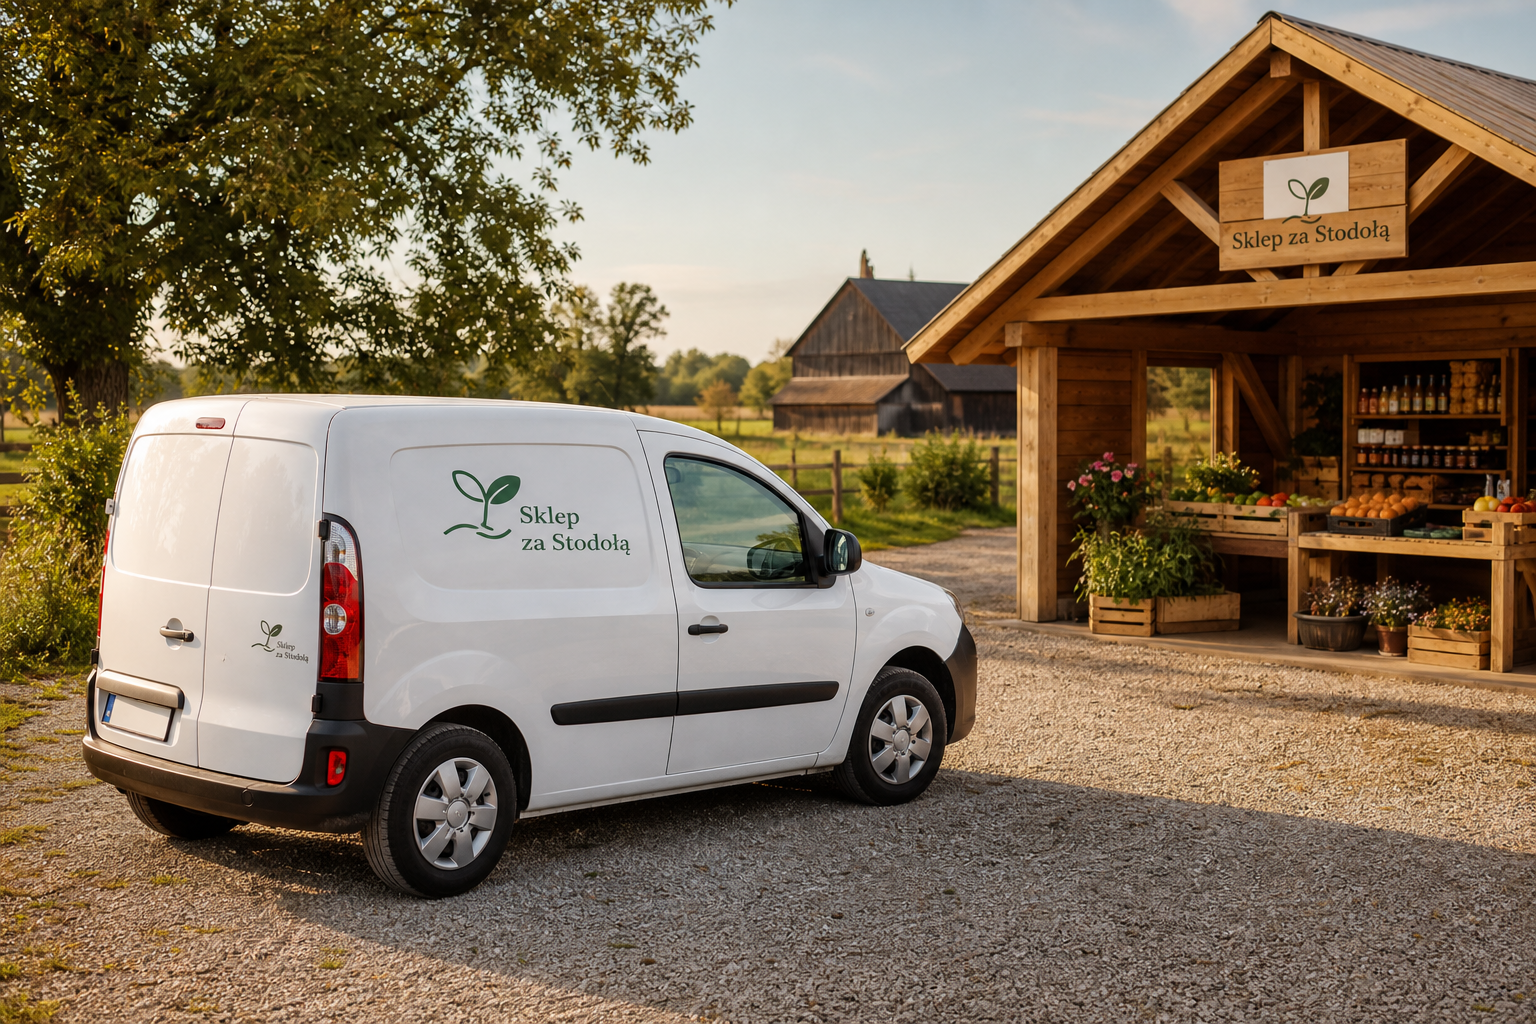
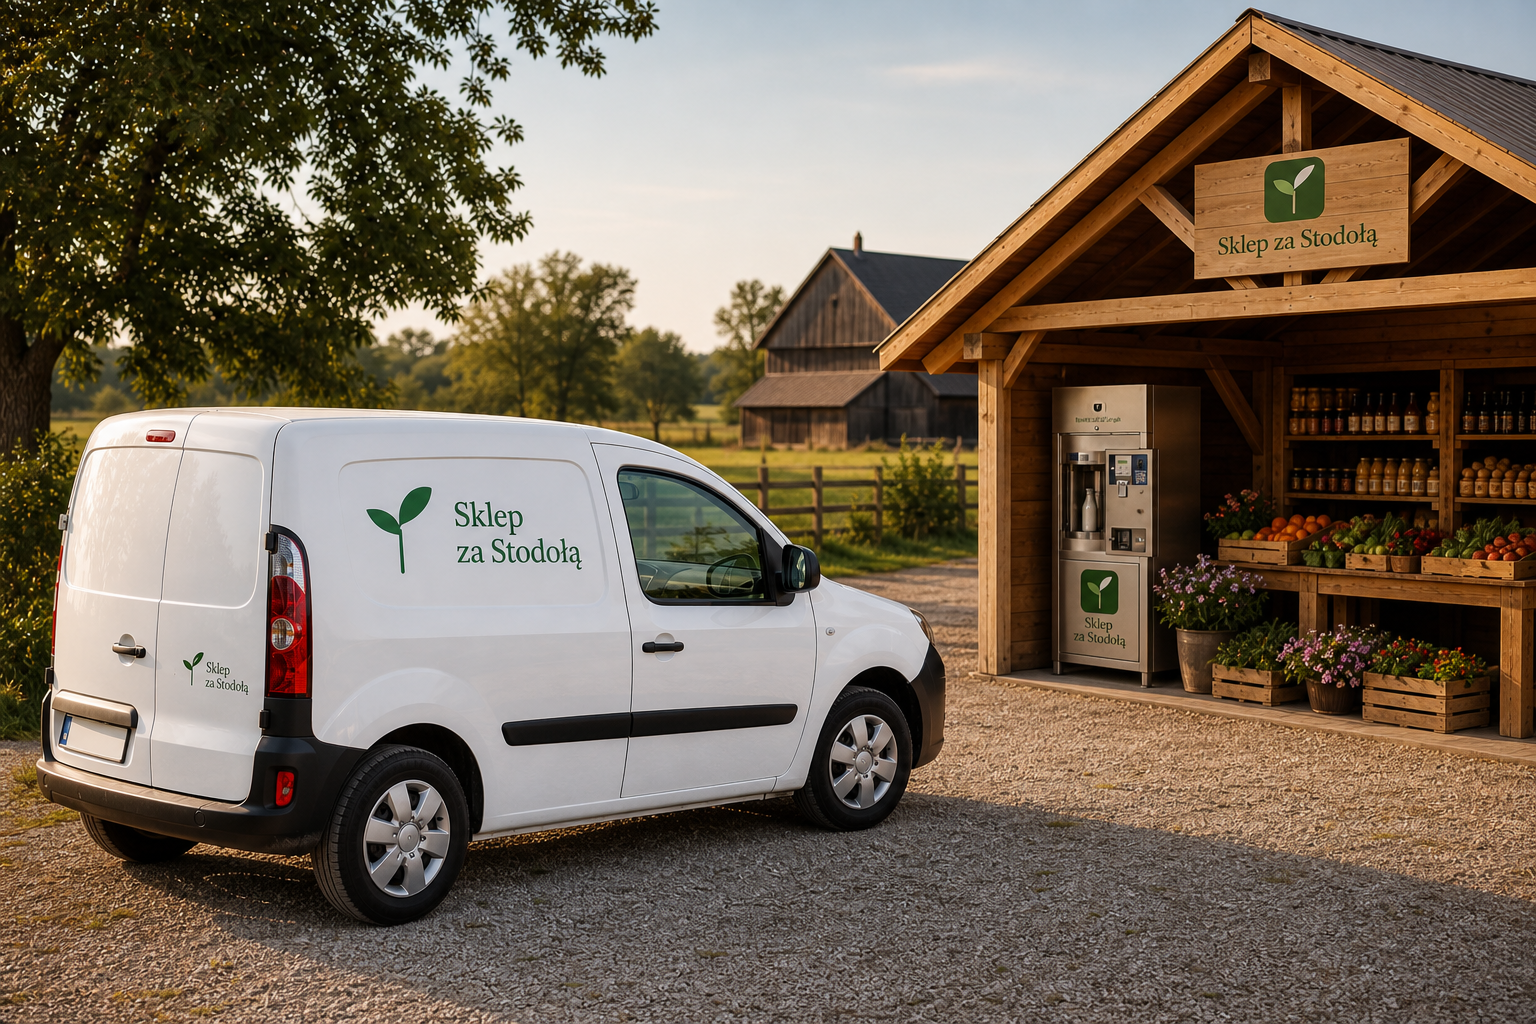
Improve homepage practice sections and trust image

diff --git a/index.html b/index.html
@@ -112,6 +112,38 @@
 .sc-val.counting { animation: countUp .35s ease-out; }
 .sc-result-val.counting { animation: countUp .45s ease-out; }
 
+/* PRACTICE FLOW */
+.practice-sec { padding: 5.5rem 5vw; background: var(--bg2); border-top: 1px solid var(--line); border-bottom: 1px solid var(--line); }
+.practice-head { max-width: 720px; }
+.practice-flow { display: grid; grid-template-columns: minmax(0,1fr) minmax(300px,.82fr); gap: 1.2rem; margin-top: 3rem; align-items: stretch; }
+.practice-steps { display: grid; grid-template-columns: repeat(2,minmax(0,1fr)); gap: .9rem; }
+.practice-card { position: relative; width: 100%; min-height: 170px; display: flex; flex-direction: column; align-items: flex-start; gap: .65rem; text-align: left; padding: 1.35rem; border-radius: var(--r-lg); border: 1px solid var(--line); background: var(--paper); color: var(--ink); box-shadow: var(--shadow); transition: transform .2s, border-color .2s, box-shadow .2s, background .2s; }
+.practice-card:hover, .practice-card.active { transform: translateY(-3px); border-color: rgba(45,90,39,.38); background: #fbfaf6; box-shadow: var(--shadow-lg); }
+.practice-card.active::after { content: ''; position: absolute; inset: auto 1.2rem 0; height: 3px; border-radius: 999px 999px 0 0; background: linear-gradient(90deg,var(--forest),var(--wheat)); }
+.practice-icon { width: 2.65rem; height: 2.65rem; display: inline-flex; align-items: center; justify-content: center; border-radius: 50%; background: var(--sage); border: 1px solid rgba(45,90,39,.18); font-size: 1.2rem; }
+.practice-kicker { font-size: .68rem; font-weight: 800; letter-spacing: .12em; text-transform: uppercase; color: var(--wheat); }
+.practice-card strong { font-size: 1rem; line-height: 1.25; color: var(--ink); }
+.practice-card span:last-child { font-size: .84rem; line-height: 1.55; color: var(--muted); }
+.practice-outcome { display: flex; flex-direction: column; justify-content: space-between; gap: 1.5rem; min-height: 100%; padding: 2rem; border-radius: var(--r-lg); background: var(--forest); color: #fff; box-shadow: var(--shadow-lg); }
+.practice-outcome small { font-size: .7rem; font-weight: 800; letter-spacing: .13em; text-transform: uppercase; color: rgba(255,255,255,.62); }
+.practice-outcome h3 { font-size: clamp(1.45rem,2.8vw,2.35rem); line-height: 1.1; letter-spacing: -.02em; margin-top: .75rem; }
+.practice-outcome p { color: rgba(255,255,255,.78); line-height: 1.7; font-size: .94rem; margin-top: 1rem; }
+.practice-pills { display: flex; flex-wrap: wrap; gap: .55rem; }
+.practice-pills span { display: inline-flex; align-items: center; border: 1px solid rgba(255,255,255,.22); border-radius: 999px; padding: .38rem .68rem; color: rgba(255,255,255,.84); font-size: .76rem; font-weight: 700; }
+
+/* FIT CHECK */
+.fit-grid { display: grid; grid-template-columns: repeat(2,minmax(0,1fr)); gap: .9rem; margin-top: 2.5rem; }
+.fit-card { background: var(--paper); border: 1px solid var(--line); border-radius: var(--r-lg); box-shadow: var(--shadow); overflow: hidden; transition: border-color .2s, box-shadow .2s, transform .2s; }
+.fit-card:hover { transform: translateY(-2px); border-color: rgba(45,90,39,.3); box-shadow: var(--shadow-lg); }
+.fit-card summary { list-style: none; cursor: pointer; display: grid; grid-template-columns: 1.55rem 1fr auto; gap: .8rem; align-items: center; padding: 1rem 1.1rem; color: var(--ink); font-weight: 800; line-height: 1.3; }
+.fit-card summary::-webkit-details-marker { display: none; }
+.fit-card summary::before { content: '✓'; width: 1.55rem; height: 1.55rem; border-radius: 50%; display: inline-flex; align-items: center; justify-content: center; background: var(--sage); color: var(--forest); font-size: .75rem; font-weight: 900; }
+.fit-card summary::after { content: '+'; width: 1.55rem; height: 1.55rem; border-radius: 50%; display: inline-flex; align-items: center; justify-content: center; border: 1px solid var(--line); color: var(--forest); font-weight: 900; transition: transform .2s, background .2s; }
+.fit-card[open] summary::after { transform: rotate(45deg); background: var(--forest); color: #fff; border-color: var(--forest); }
+.fit-card p { padding: 0 1.1rem 1.1rem 3.45rem; color: var(--muted); font-size: .9rem; line-height: 1.65; }
+.fit-note { margin-top: 2rem; padding: 1.35rem 1.5rem; background: var(--sage); border: 1px solid rgba(45,90,39,.2); border-radius: var(--r-lg); max-width: 690px; box-shadow: var(--shadow); }
+.fit-note p { font-size: .93rem; color: var(--ink2); line-height: 1.7; }
+
 /* CALC TABS (copied from jak-dzialamy) */
 .calc-tab { padding: .6rem 1.4rem; border: 1.5px solid var(--line); border-radius: 2rem; font-family: var(--sans); font-size: .85rem; font-weight: 700; cursor: pointer; background: var(--paper); color: var(--muted); transition: all .2s; }
 .calc-tab:hover { border-color: var(--forest); color: var(--forest); }
@@ -119,11 +151,17 @@
 
 @media(max-width:860px){
   .scenario-grid { grid-template-columns: 1fr; gap: 2rem; }
+  .practice-flow { grid-template-columns: 1fr; }
+  .fit-grid { grid-template-columns: 1fr; }
 }
 @media(max-width:600px){
   .sc-val { min-width: 60px; font-size: .9rem; }
   .hero { min-height: auto; padding: 8.5rem 5vw 3rem; justify-content: flex-start; }
   .hero-actions { margin-bottom: 1rem; }
+  .practice-sec { padding: 4rem 5vw; }
+  .practice-steps { grid-template-columns: 1fr; }
+  .practice-card { min-height: auto; }
+  .practice-outcome { padding: 1.5rem; }
 }
 
 .cta-band { padding: 5.5rem 5vw; border-top: 1px solid var(--line); }
@@ -328,43 +366,53 @@
 </div> -->
 
 <!-- JAK WYGLĄDA GOTOWY SKLEP -->
-<section style="background:var(--bg2);border-top:1px solid var(--line);border-bottom:1px solid var(--line)">
-<div class="wrap" style="padding:5rem 0">
-  <div data-r style="max-width:700px">
+<section class="practice-sec">
+<div class="wrap">
+  <div class="practice-head" data-r>
     <p class="sec-label">Jak to działa w praktyce</p>
     <h2 class="sec-title">Jak wygląda gotowy<br><em>sklep przy gospodarstwie?</em></h2>
+    <p class="sec-body">Kliknij krok i zobacz, co dzieje się po stronie klienta oraz po stronie gospodarstwa.</p>
   </div>
-  <div style="display:grid;grid-template-columns:repeat(auto-fit,minmax(200px,1fr));gap:1px;background:var(--line);border:1px solid var(--line);border-radius:var(--r-lg);overflow:hidden;margin-top:3rem">
-    <div style="background:var(--paper);padding:2rem;text-align:center" data-r data-d="1">
-      <div style="font-size:2.2rem;margin-bottom:.8rem">🚗</div>
-      <p style="font-size:.72rem;font-weight:700;letter-spacing:.1em;text-transform:uppercase;color:var(--forest);margin-bottom:.5rem">Krok 1</p>
-      <p style="font-size:.95rem;font-weight:700;color:var(--ink);margin-bottom:.4rem">Klient przyjeżdża</p>
-      <p style="font-size:.83rem;color:var(--muted);line-height:1.6">Po świeże mleko — o każdej porze, 24/7. Bez kolejek, bez sklepu.</p>
+  <div class="practice-flow" data-r data-d="1">
+    <div class="practice-steps" data-practice-steps>
+      <button type="button" class="practice-card active" data-practice-title="Klient widzi prosty punkt sprzedaży" data-practice-copy="Podjeżdża po świeże mleko wtedy, kiedy mu pasuje. Bez sklepu, bez kolejki i bez umawiania się z gospodarzem.">
+        <span class="practice-icon">🚗</span>
+        <span class="practice-kicker">Krok 1</span>
+        <strong>Klient przyjeżdża</strong>
+        <span>Świeże mleko dostępne o każdej porze, blisko drogi i gospodarstwa.</span>
+      </button>
+      <button type="button" class="practice-card" data-practice-title="Mlekomat obsługuje sprzedaż" data-practice-copy="Urządzenie chłodzi, odmierza i wydaje mleko. Płatność może działać kartą, BLIK-iem lub gotówką, zależnie od konfiguracji.">
+        <span class="practice-icon">🥛</span>
+        <span class="practice-kicker">Krok 2</span>
+        <strong>Kupuje mleko</strong>
+        <span>Automatyczna sprzedaż bez stałego stania przy punkcie.</span>
+      </button>
+      <button type="button" class="practice-card" data-practice-title="Punkt zaczyna sprzedawać więcej niż mleko" data-practice-copy="Przy mleku można pokazać jajka, sery, masło, miód albo przetwory. To podnosi wartość koszyka i buduje stały ruch.">
+        <span class="practice-icon">🧀</span>
+        <span class="practice-kicker">Krok 3</span>
+        <strong>Bierze też coś więcej</strong>
+        <span>Produkty z gospodarstwa mają swoje miejsce obok mlekomatu.</span>
+      </button>
+      <button type="button" class="practice-card" data-practice-title="Sprzedaż pracuje codziennie" data-practice-copy="Klient wraca, bo ma wygodny punkt po drodze. Ty widzisz sprzedaż i nie oddajesz całej wartości mleka pośrednikom.">
+        <span class="practice-icon">📊</span>
+        <span class="practice-kicker">Efekt</span>
+        <strong>Płaci i wraca</strong>
+        <span>Stały punkt przy gospodarstwie zamiast jednorazowej sprzedaży.</span>
+      </button>
     </div>
-    <div style="background:var(--paper);padding:2rem;text-align:center" data-r data-d="2">
-      <div style="font-size:2.2rem;margin-bottom:.8rem">🥛</div>
-      <p style="font-size:.72rem;font-weight:700;letter-spacing:.1em;text-transform:uppercase;color:var(--forest);margin-bottom:.5rem">Krok 2</p>
-      <p style="font-size:.95rem;font-weight:700;color:var(--ink);margin-bottom:.4rem">Kupuje mleko</p>
-      <p style="font-size:.83rem;color:var(--muted);line-height:1.6">Kartą, BLIK-iem lub gotówką. Mlekomat wydaje, liczy i chłodzi automatycznie.</p>
-    </div>
-    <div style="background:var(--paper);padding:2rem;text-align:center" data-r data-d="3">
-      <div style="font-size:2.2rem;margin-bottom:.8rem">🧀</div>
-      <p style="font-size:.72rem;font-weight:700;letter-spacing:.1em;text-transform:uppercase;color:var(--forest);margin-bottom:.5rem">Krok 3</p>
-      <p style="font-size:.95rem;font-weight:700;color:var(--ink);margin-bottom:.4rem">Bierze też coś więcej</p>
-      <p style="font-size:.83rem;color:var(--muted);line-height:1.6">Jajka, ser, masło, miód, przetwory — wszystko z Twojego gospodarstwa.</p>
-    </div>
-    <div style="background:var(--paper);padding:2rem;text-align:center" data-r data-d="4">
-      <div style="font-size:2.2rem;margin-bottom:.8rem">💳</div>
-      <p style="font-size:.72rem;font-weight:700;letter-spacing:.1em;text-transform:uppercase;color:var(--forest);margin-bottom:.5rem">Krok 4</p>
-      <p style="font-size:.95rem;font-weight:700;color:var(--ink);margin-bottom:.4rem">Płaci i wraca</p>
-      <p style="font-size:.83rem;color:var(--muted);line-height:1.6">Zostaje stałym klientem. Ty masz wyższe marże niż w skupie — bez pośredników.</p>
-    </div>
-    <div style="background:var(--sage);border-left:3px solid var(--forest);padding:2rem;text-align:center" data-r data-d="5">
-      <div style="font-size:2.2rem;margin-bottom:.8rem">📊</div>
-      <p style="font-size:.72rem;font-weight:700;letter-spacing:.1em;text-transform:uppercase;color:var(--forest);margin-bottom:.5rem">A Ty tymczasem</p>
-      <p style="font-size:.95rem;font-weight:700;color:var(--ink);margin-bottom:.4rem">Zajmujesz się krowami</p>
-      <p style="font-size:.83rem;color:var(--muted);line-height:1.6">Panel online pokazuje sprzedaż. SMS gdy mleko się kończy. Sklep działa sam.</p>
-    </div>
+    <aside class="practice-outcome" aria-live="polite">
+      <div>
+        <small>Co to daje w praktyce</small>
+        <h3 id="practice-title">Klient widzi prosty punkt sprzedaży</h3>
+        <p id="practice-copy">Podjeżdża po świeże mleko wtedy, kiedy mu pasuje. Bez sklepu, bez kolejki i bez umawiania się z gospodarzem.</p>
+      </div>
+      <div class="practice-pills">
+        <span>24/7</span>
+        <span>mlekomat</span>
+        <span>pawilon</span>
+        <span>produkty lokalne</span>
+      </div>
+    </aside>
   </div>
 </div>
 </section>
@@ -376,15 +424,30 @@
     <h2 class="sec-title">Czy to ma sens<br><em>w Twoim gospodarstwie?</em></h2>
     <p class="sec-body">Mówimy uczciwie — sklep przy gospodarstwie nie opłaca się każdemu. Sprawdź te 5 punktów, zanim zaczniesz liczyć szczegóły w kalkulatorze niżej.</p>
   </div>
-  <ul class="check-list" data-r data-d="1" style="margin-top:2.5rem">
-    <li><strong>Liczba krów mlecznych</strong> — orientacyjnie od 20-30 wzwyż. Mniej też ma sens, ale zwykle jako wariant podstawowy z możliwością późniejszej rozbudowy.</li>
-    <li><strong>Lokalizacja z ruchem</strong> — blisko wsi, miasteczka, osiedla, drogi przelotowej lub szlaku agroturystycznego. To ważniejsze niż sama wielkość stada.</li>
-    <li><strong>Realna liczba potencjalnych klientów</strong> — czy w okolicy jest 20-50 gospodarstw domowych, które realnie kupiłyby mleko prosto od Ciebie?</li>
-    <li><strong>Produkty dodatkowe (plus, nie warunek)</strong> — jajka, sery, miód, warzywa. Zwiększają potencjał punktu sprzedaży, a mlekomat może być pierwszym etapem.</li>
-    <li><strong>Miejsce i dojazd</strong> — utwardzony dojazd, miejsce na pawilon blisko drogi, dostęp do prądu (woda przydatna, ale nie zawsze konieczna).</li>
-  </ul>
-  <div style="margin-top:2rem;padding:1.4rem 1.6rem;background:var(--sage);border:1px solid rgba(45,90,39,.2);border-radius:var(--r-lg);max-width:640px" data-r data-d="2">
-    <p style="font-size:.92rem;color:var(--ink2);line-height:1.7">Spełniasz większość punktów? Przejdź do kalkulatora niżej. Nie jesteś pewien? <a href="kontakt.html" style="color:var(--forest);font-weight:700">Zadzwoń</a> — powiemy wprost, czy ma to sens u Ciebie, zamiast obiecywać złote góry każdemu.</p>
+  <div class="fit-grid" data-r data-d="1">
+    <details class="fit-card" open>
+      <summary>Liczba krów mlecznych</summary>
+      <p>Orientacyjnie od 20-30 wzwyż. Mniej też może mieć sens, ale zwykle jako wariant podstawowy z możliwością późniejszej rozbudowy.</p>
+    </details>
+    <details class="fit-card">
+      <summary>Lokalizacja z ruchem</summary>
+      <p>Blisko wsi, miasteczka, osiedla, drogi przelotowej lub szlaku agroturystycznego. To ważniejsze niż sama wielkość stada.</p>
+    </details>
+    <details class="fit-card">
+      <summary>Realna liczba klientów</summary>
+      <p>Czy w okolicy jest 20-50 gospodarstw domowych, które realnie kupiłyby mleko prosto od Ciebie?</p>
+    </details>
+    <details class="fit-card">
+      <summary>Produkty dodatkowe</summary>
+      <p>Jajka, sery, miód, warzywa i przetwory zwiększają potencjał punktu. To plus, ale nie warunek startu.</p>
+    </details>
+    <details class="fit-card">
+      <summary>Miejsce i dojazd</summary>
+      <p>Liczy się utwardzony dojazd, miejsce na pawilon blisko drogi i dostęp do prądu. Woda bywa przydatna, ale nie zawsze jest konieczna.</p>
+    </details>
+  </div>
+  <div class="fit-note" data-r data-d="2">
+    <p>Spełniasz większość punktów? Przejdź do kalkulatora niżej. Nie jesteś pewien? <a href="kontakt.html" style="color:var(--forest);font-weight:700">Zadzwoń</a> — powiemy wprost, czy ma to sens u Ciebie, zamiast obiecywać złote góry każdemu.</p>
   </div>
 </div>
 </section>
@@ -757,6 +820,17 @@ document.addEventListener('DOMContentLoaded', function(){
       }
     },{threshold:0.25}).observe(scSec);
   }
+
+  var practiceTitle=document.getElementById('practice-title');
+  var practiceCopy=document.getElementById('practice-copy');
+  document.querySelectorAll('.practice-card').forEach(function(card){
+    card.addEventListener('click',function(){
+      document.querySelectorAll('.practice-card').forEach(function(other){ other.classList.remove('active'); });
+      card.classList.add('active');
+      if(practiceTitle) practiceTitle.textContent=card.dataset.practiceTitle || '';
+      if(practiceCopy) practiceCopy.textContent=card.dataset.practiceCopy || '';
+    });
+  });
 });
 </script>
 </body>
